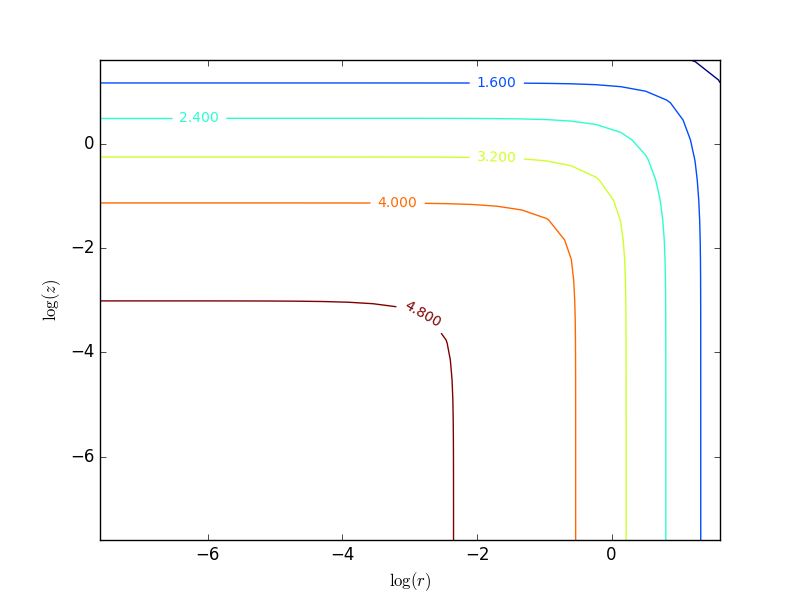
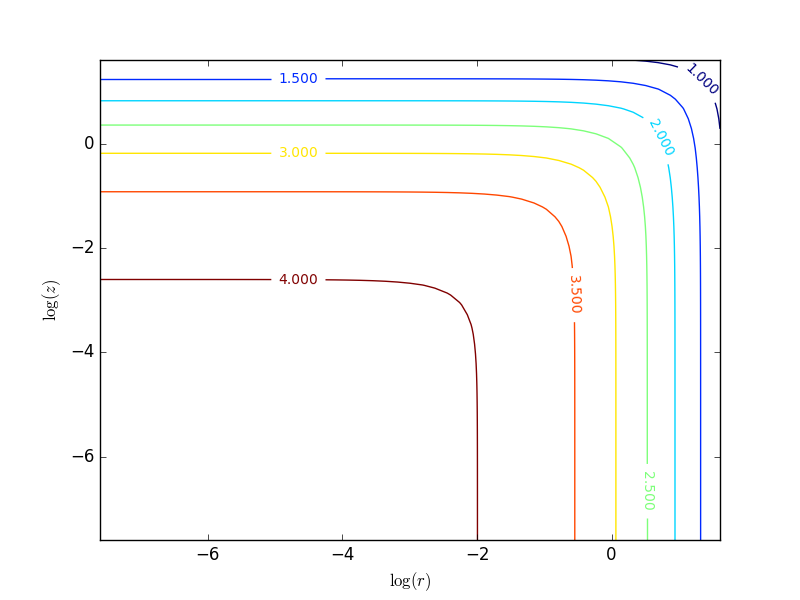
added command line arguments and put no baryon case in SIDM_pde.py

diff --git a/SIDM_pde.py b/SIDM_pde.py
@@ -2,6 +2,29 @@ import numpy as np
 import matplotlib.pyplot as plt
 from mpl_toolkits.mplot3d import axes3d
 
+import argparse
+
+
+parser = argparse.ArgumentParser(formatter_class=argparse.ArgumentDefaultsHelpFormatter)
+parser.add_argument('--output',type = str, default = None,
+    help = 'names (prefix) of output files to write')
+parser.add_argument('--r_len', type = int, default=50,
+    help = 'size of array along r direction')
+parser.add_argument('--z_len', type = int, default=50,
+    help = 'size of array along r direction')
+parser.add_argument('--scale', type = float, default=-4,
+    help = 'exponential term to describe innermost point r_inner = r1 * 10^scale')
+parser.add_argument('--r1', type = float, default=5.,
+    help = 'the boundary of the array in kpc')
+parser.add_argument('--rho0', type = float, default=5.e6,
+    help = 'scale density of the solution in M_sun/kpc')
+parser.add_argument('--num_iter', type = int, default=1000000,
+    help = 'number of iterations in the relaxation')
+parser.add_argument('--no_baryons', action='store_true',
+    help = 'type --no_baryons if you want an isothermal core')
+args = parser.parse_args()
+
+
 def interp(grid):
     grid_shape = grid.shape
     new_grid_shape = grid_shape*2
@@ -52,26 +75,58 @@ def relax(u, r, z, r1, rho0, iterations):
         u[:,-1] = NFW_template(r[:,-1],z[:,-1]) #used to enforce 'NFW for large R' boundary condition 
     return u, residual
 
+def relax_no_baryons(u, r, z, r1, rho0, iterations):
+    #u is the solution to the diffeq, given in terms of log(rho/rho0)
+    g= 2.71*(rho0/5.e6)*(r1/10.)**2 # 4pi * GN * rho0 *r1**2/sigma**2 for sigma 100 km/s, it is dimensionless  
+    delta_r = np.gradient(r/r1)[0]  # for a 2-d array, gradient returns gradient as a list 'vector' defined at each point, 0 axis for r and 1 axis for z   
+    delta_z = np.gradient(z/r1)[1]
+    #time_step = 1/10000.
+    for i in range(iterations):
+        u[0,:] = u[1,:] 
+        u[:,0] = u[:,1] 
+        #enforces the derivative goes to 0 at r,z = 0, which is required by symmetry / smoothness
+        residual = r1/r*np.gradient(u)[0]/delta_r + np.gradient(u,2)[0]/delta_r**2 + np.gradient(u,2)[1]/delta_z**2 + g*(np.exp(u))
+        time_step = 1e-3/residual.max()
+        u += time_step*residual
+        u[-1,:] = NFW_template(r[-1,:],z[-1,:])
+        u[:,-1] = NFW_template(r[:,-1],z[:,-1]) #used to enforce 'NFW for large R' boundary condition 
+    return u, residual
 
-r_len = 26
-z_len = 25
-bound = 1
-scale = -4. #exponential term to describe innermost point r_inner = r1 * 10^scale
-r1 = 5. # in kpc 
-rho0 = 5.e6 # scale density of the solution in M_sun/kpc^3
-num_iter = 1000000
+
+
+#r_len = 51
+#z_len = 50
+#scale = -4. #exponential term to describe innermost point r_inner = r1 * 10^scale
+#r1 = 5. # in kpc
+#rho0 = 5.e6 # scale density of the solution in M_sun/kpc^3
+#num_iter = 4000000
+r_len = args.r_len
+z_len = args.z_len
+scale = args.scale
+r1 = args.r1
+rho0 = args.rho0
+num_iter = args.num_iter
+output = args.output
+
+f1=open(output+'_params.txt', 'w')
+f1.write('len in r direction is '+str(r_len))
+f1.write('len in z direction is '+str(z_len))
+f1.write('magnitude of innermost point is '+str(scale))
+f1.write('outer boundary is '+str(r1)+' kpc')
+f1.write('number of iterations is '+str(num_iter))
+f1.close()
 
 
 #arrays (r,z,u) have the shape (r_len,z_len)  
   
-r = bound*r1*np.logspace(scale,0.,r_len,endpoint=True) #the polar radius; varies from r1*( e^-scale to 1), the [::-1] is there to reverse the array to make the index start at the inner part of the halo
+r = r1*np.logspace(scale,0.,r_len,endpoint=True) #the polar radius; varies from r1*( e^-scale to 1), the [::-1] is there to reverse the array to make the index start at the inner part of the halo
 r = np.tile(r[:,np.newaxis],(1,z_len))
 
-z = bound*r1*np.logspace(scale,0.,z_len,endpoint=True) #the height; varies from r1*( e^-scale to 1), the [::-1] is there to reverse the array to make the index start at the inner part of the halo
+z = r1*np.logspace(scale,0.,z_len,endpoint=True) #the height; varies from r1*( e^-scale to 1), the [::-1] is there to reverse the array to make the index start at the inner part of the halo
 z = np.tile(z[np.newaxis,:],(r_len,1))
 
 
-u = NFW_template(r, z) #u is the solution to the diffeq, given in terms of log(rho/rho0)       
+u = NFW_template(r, z) #u is the solution to the diffeq, given in terms of log(rho/rho0); this line sets up the initial condition for the pde
 
 
 #### PLOTS BEFORE RELAXATION ####
@@ -80,21 +135,21 @@ ax = fig.add_subplot(111, projection='3d')
 ax.plot_wireframe(np.log(r), np.log(z), u, rstride=2, cstride=2)
 plt.xlabel(r'$\log(r)$')
 plt.ylabel(r'$\log(z)$')
-plt.savefig('wireplot_before.png')
+plt.savefig(output + 'wireplot_before.png')
 plt.clf()
 
 CS = plt.contour(np.log(r),np.log(z),u)
 plt.clabel(CS, inline=1,fontsize=10)
 plt.xlabel(r'$\log(r)$')
 plt.ylabel(r'$\log(z)$')
-plt.savefig('log_density_before.png')
+plt.savefig(output + 'log_density_before.png')
 plt.clf()
 
 CS = plt.contour(r,z,u)
 plt.clabel(CS, inline=1,fontsize=10)
 plt.xlabel('Radius (kpc)')
 plt.ylabel('Height (z) (kpc)')
-plt.savefig('density_before.png')
+plt.savefig(output + 'density_before.png')
 plt.clf()
 
 plt.contourf(r,z,u)
@@ -102,15 +157,17 @@ plt.xscale('log')
 plt.yscale('log')
 plt.xlabel(r'$\log(r)$')
 plt.ylabel(r'$\log(z)$')
-plt.savefig('log_density_filled_before.png')
+plt.savefig(output + 'log_density_filled_before.png')
 plt.clf()
 
 
 
 
 #### RELAXATION ####
-u, residual = relax(u, r, z, r1, rho0, num_iter)
-
+if args.no_baryons:
+    u, residual = relax_no_baryons(u, r, z, r1, rho0, num_iter)
+else:
+    u, residual = relax(u, r, z, r1, rho0, num_iter)
 
 
 #### PLOTS AFTER RELAXATION ####
@@ -118,14 +175,14 @@ CS = plt.contour(np.log(r),np.log(z),u)
 plt.clabel(CS, inline=1, fontsize=10)
 plt.xlabel(r'$\log(r)$')
 plt.ylabel(r'$\log(z)$')
-plt.savefig('log_density_after.png')
+plt.savefig(output + 'log_density_after.png')
 plt.clf()
 
 CS = plt.contour(r,z,u)
 plt.clabel(CS, inline=1, fontsize=10)
 plt.xlabel('Radius (kpc)')
 plt.ylabel('Height (z) (kpc)')
-plt.savefig('density_after.png')
+plt.savefig(output + 'density_after.png')
 plt.clf()
 
 fig = plt.figure()
@@ -133,7 +190,7 @@ ax = fig.add_subplot(111, projection='3d')
 ax.plot_wireframe(np.log(r), np.log(z), u, rstride=2, cstride=2)
 plt.xlabel(r'$\log(r)$')
 plt.ylabel(r'$\log(z)$')
-plt.savefig('wireplot_after.png')
+plt.savefig(output + 'output + wireplot_after.png')
 plt.clf()
 
 plt.contourf(r,z,u)
@@ -141,7 +198,7 @@ plt.xscale('log')
 plt.yscale('log')
 plt.xlabel(r'$\log(r)$')
 plt.ylabel(r'$\log(z)$')
-plt.savefig('log_density_filled_after.png')
+plt.savefig(output + 'log_density_filled_after.png')
 plt.clf()
 
 
@@ -150,7 +207,7 @@ CS = plt.contour(np.log(r),np.log(z),residual)
 plt.clabel(CS, inline=1, fontsize=10)
 plt.xlabel(r'$\log(r)$')
 plt.ylabel(r'$\log(z)$')
-plt.savefig('final_residual.png')
+plt.savefig(output + 'final_residual.png')
 plt.clf()
 
 fig = plt.figure()
@@ -158,14 +215,14 @@ ax = fig.add_subplot(111, projection='3d')
 ax.plot_wireframe(np.log(r), np.log(z), residual, rstride=2, cstride=2)
 plt.xlabel(r'$\log(r)$')
 plt.ylabel(r'$\log(z)$')
-plt.savefig('wireplot_residual.png')
+plt.savefig(output + 'wireplot_residual.png')
 plt.clf()
 
 CS = plt.contour(np.log(r),np.log(z),residual/u)
 plt.clabel(CS, inline=1, fontsize=10)
 plt.xlabel(r'$\log(r)$')
 plt.ylabel(r'$\log(z)$')
-plt.savefig('final_residual_contrast.png')
+plt.savefig(output + 'final_residual_contrast.png')
 plt.clf()
 
 fig = plt.figure()
@@ -173,6 +230,6 @@ ax = fig.add_subplot(111, projection='3d')
 ax.plot_wireframe(np.log(r), np.log(z), residual/u, rstride=2, cstride=2)
 plt.xlabel(r'$\log(r)$')
 plt.ylabel(r'$\log(z)$')
-plt.savefig('wireplot_residual_contrast.png')
+plt.savefig(output + 'wireplot_residual_contrast.png')
 plt.clf()
                 

diff --git a/README.md b/README.md
@@ -2,6 +2,29 @@
 
 SIDM_pde.py calculates the log of the density of DM in the presence of some baryon potential
 
-SIDM_pde_nobaryons.py same as above but no baryons, which gets the isothermal core solution
+it includes optional use of command line arguments:
+--output: type = str, default = None,
+    help = 'names (prefix) of output files to write')
+--r_len: type = int, default=50,
+    help = 'size of array along r direction')
+--z_len: type = int, default=50,
+    help = 'size of array along r direction')
+--scale: type = float, default=-4,
+    help = 'exponential term to describe innermost point r_inner = r1 * 10^scale')
+--r1: type = float, default=5.,
+    help = 'the boundary of the array in kpc')
+--rho0: type = float, default=5.e6,
+    help = 'scale density of the solution in M_sun/kpc')
+--num_iter: type = int, default=1000000,
+    help = 'number of iterations in the relaxation')
+--no_baryons: action='store_true',
+    help = 'type --no_baryons if you want an isothermal core')
 
-all the plots with _iso suffix comes from the nobaryons solution
+example command line:
+python SIDM_pde.py --r_len 100 --z_len 100 --scale -5. --r1 10. --rho0 1.e7 --num_iter 4000000 --no_baryons
+
+also writes a .txt file with the parameters used
+
+no longer includes no baryon case as a seperate file since that functionality is now in an if statement    
+    
+as of 2/15/17 all the plots with _iso suffix comes from the nobaryons solution
